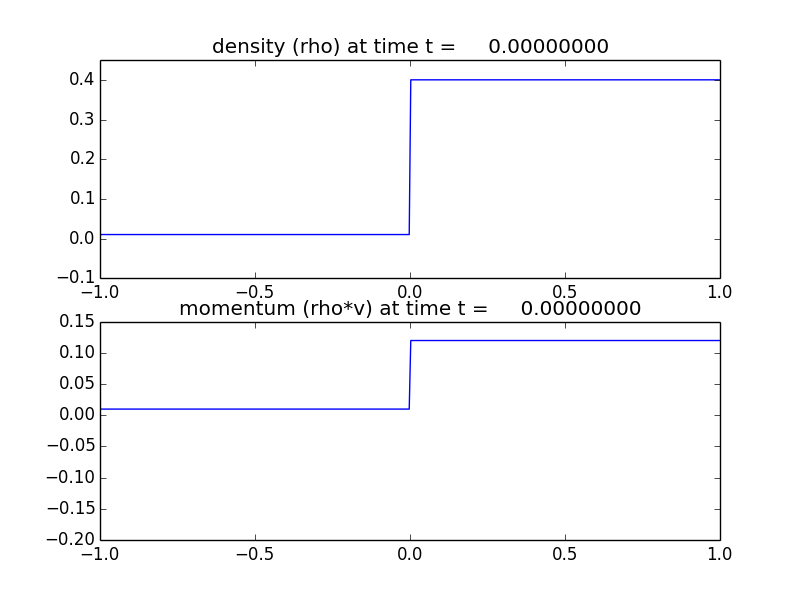
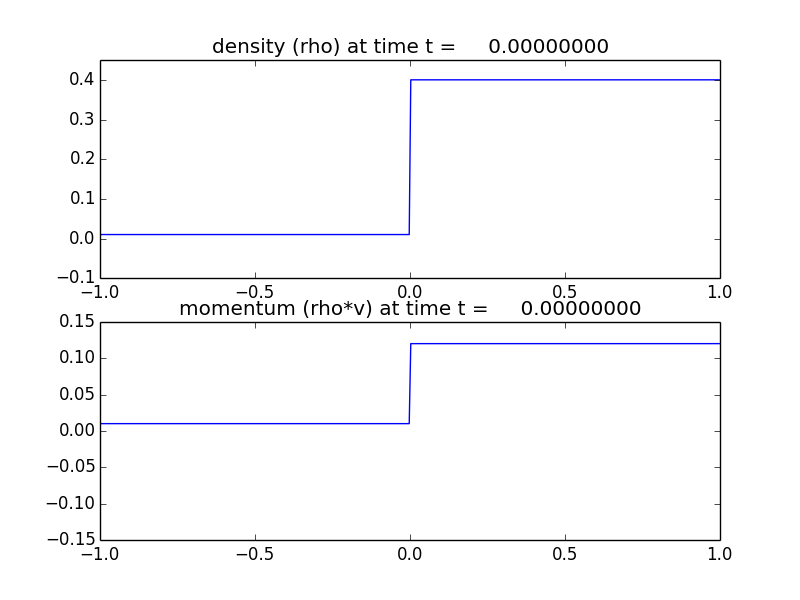
Fixed pw.f90

Changed region(s): [[0.0625, 0.57, 0.5312, 0.93], [0.5, 0.54, 0.9062, 0.6]]

diff --git a/ClawpackCode/setplot.py b/ClawpackCode/setplot.py
@@ -44,7 +44,7 @@ def setplot(plotdata):
     plotaxes = plotfigure.new_plotaxes()
     plotaxes.axescmd = 'subplot(2,1,2)'   # bottom figure
     plotaxes.xlimits = 'auto'
-    plotaxes.ylimits = [-0.2,0.15]
+    plotaxes.ylimits = [-0.15,0.15]
     plotaxes.title = 'momentum (rho*v)'
 
     # Set up for item on these axes:
